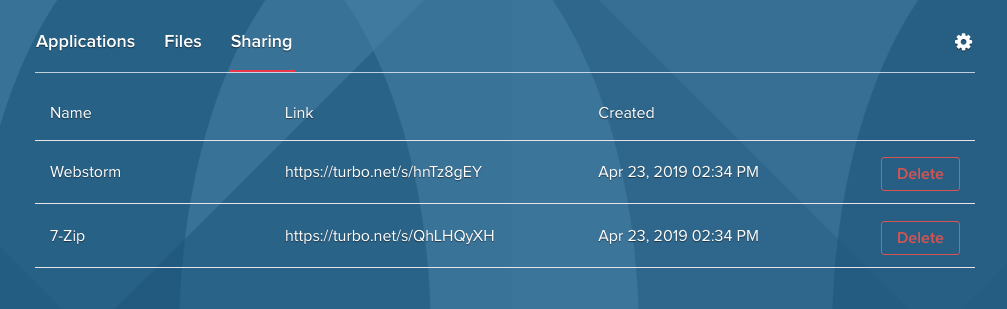
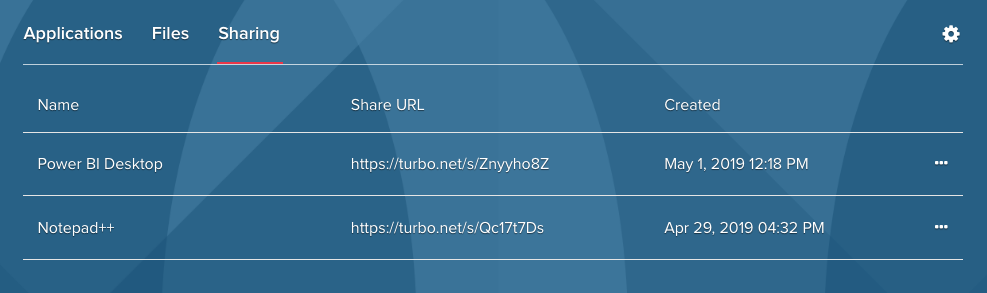
Update Share URL docs

diff --git a/getting_started/administrators/8_creating_turbo_urls.md b/getting_started/administrators/8_creating_turbo_urls.md
@@ -4,12 +4,12 @@ Turbo allows organization administrators to create a URL for end users to run ap
 
 First create an API key under the organization. Log into your organization's administrator or owner account and navigate to your organizations Devices & API Keys page. The Devices & API Keys page can be found through the `Profile and Account` link on your organization's dashboard, or directly through the URL `https://turbo.net/orgs/{org-name}/settings/devices-and-api-keys`. Click `Add API Key` to create an API key which will be embed in the Turbo URL as a query parameter. Give it a name you can remember (and possibly revoke later).  
 
-Next, we will obtain a URL to launch and application under the organizations namespace. Navigate to your organization's dashboard (click on your profile dropdown). The organization's dashboard should be at the url `https://turbo.net/orgs/{org-name}`. Right click on the application you would like to run using an anonymous url. Select `Share Application`. A new dialog will open, with the option to select the API key from the previous step. The `Launch Location` dropdown allows the URL to specify whether the application will launch directly in the HTML5 client, or attempt to launch using the native Turbo.net client via the Turbo Protocol. Click `Create Link`, then copy the Share URL to a text editor.  
+Next, we will obtain a URL to launch an application under the organizations namespace. Navigate to your organization's dashboard (click on your profile dropdown). The organization's dashboard should be at the url `https://turbo.net/orgs/{org-name}`. Right click on the application you would like to run using an anonymous url. Select `Share Application`. A new dialog will open, with the option to select the API key from the previous step. The `Launch Location` dropdown allows the URL to specify whether the application will launch directly in the HTML5 client, or attempt to launch using the native Turbo.net client via the Turbo Protocol. Click `Create Link`, then copy the Share URL to a text editor.  
 
 ![](/docs/getting_started/administrators/create-share-link.png)
 
 To test your link, open an incognito browser window without logging into Turbo.net and paste the URL into the browser address bar. The application should run without requiring a login. Please be aware that the Share URLs use an API Key that allows access to your organization's applications and should be kept secure within the organization. 
 
-A list of all of your organization's Share URLs can be found by visiting the the `Sharing` tab on your organization's dashboard. If you wish to revoke a Share URL, you may do so by clicking `Delete` on the appropriate Share URL.
+A list of all of your organization's Share URLs can be found by visiting the the `Sharing` tab on your organization's dashboard. If you wish to modify or revoke your Share URL, you may do so by clicking `...` options dropdown on the appropriate Share URL.
 
 ![](/docs/getting_started/administrators/share-table.png)
